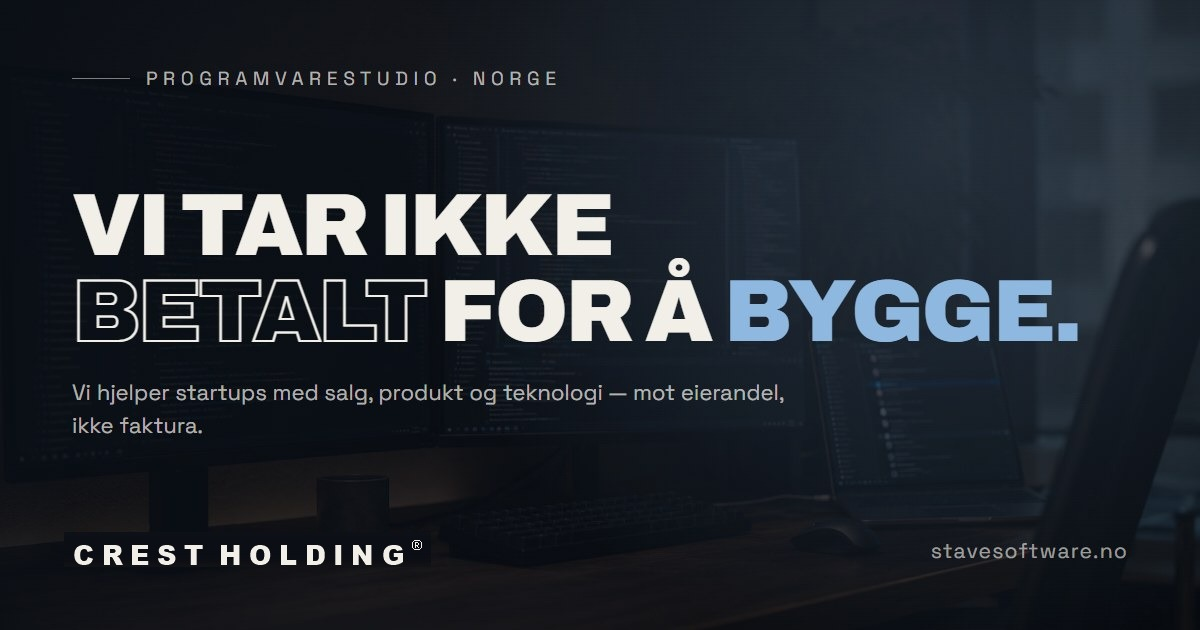
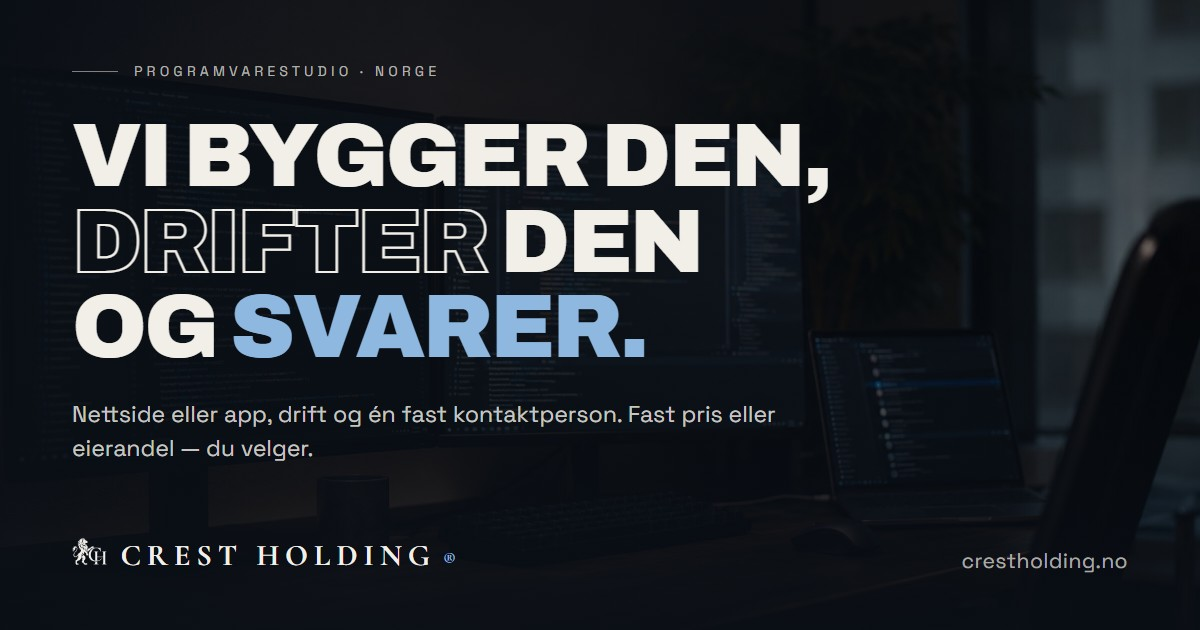
Nytt delingsbilde som matcher siden
Det gamle bildet hadde fire feil brent inn: «Vi tar ikke betalt for å bygge»,
en ingress om eierandel i stedet for faktura, stavesoftware.no i hjørnet, og
et ordmerke satt i Arial Black i stedet for logoens egen skrift.

Bildet er laget på nytt i stedet for lappet, som en side rendret i nøyaktig
1200 x 630 med sidens egne fonter — Archivo i tittelen, Space Grotesk i
brødteksten og Cormorant Garamond i ordmerket — og heroens bakgrunnsbilde.
Rendringen ventet på at alle tre fontene faktisk var lastet, så det ikke er
reserveskrifter som er brent inn.

URL-en har fått ?v=2. Facebook og LinkedIn mellomlagrer delingsbilder etter
adresse, og med samme filnavn ville de fortsatt vist det gamle.

diff --git a/app/blogg/[slug]/page.tsx b/app/blogg/[slug]/page.tsx
@@ -33,7 +33,7 @@ export async function generateMetadata({
       publishedTime: a.publisert,
       images: [
         {
-          url: '/og-image.jpg',
+          url: '/og-image.jpg?v=2',
           width: 1200,
           height: 630,
           alt: `${selskap.fulltNavn} — Vi bygger digitale produkter folk faktisk bruker`,
@@ -44,7 +44,7 @@ export async function generateMetadata({
       card: "summary_large_image",
       title: a.tittel,
       description: a.metaBeskrivelse,
-      images: ["/og-image.jpg"],
+      images: ["/og-image.jpg?v=2"],
     },
   };
 }

diff --git a/app/layout.tsx b/app/layout.tsx
@@ -67,7 +67,7 @@ export const metadata: Metadata = {
     locale: "nb_NO",
     images: [
       {
-        url: '/og-image.jpg',
+        url: '/og-image.jpg?v=2',
         width: 1200,
         height: 630,
         alt: `${selskap.fulltNavn} — Vi bygger den, drifter den og svarer`,
@@ -79,7 +79,7 @@ export const metadata: Metadata = {
     title: selskap.fulltNavn,
     description:
       "Vi bygger nettsider og apper, drifter dem, og du får én fast person. Fast pris eller eierandel.",
-    images: ["/og-image.jpg"],
+    images: ["/og-image.jpg?v=2"],
   },
 };
 

diff --git a/app/blogg/page.tsx b/app/blogg/page.tsx
@@ -19,7 +19,7 @@ export const metadata: Metadata = {
     locale: "nb_NO",
     images: [
       {
-        url: '/og-image.jpg',
+        url: '/og-image.jpg?v=2',
         width: 1200,
         height: 630,
         alt: `${selskap.fulltNavn} — Vi bygger digitale produkter folk faktisk bruker`,

diff --git a/app/personvern/page.tsx b/app/personvern/page.tsx
@@ -19,7 +19,7 @@ export const metadata: Metadata = {
     locale: "nb_NO",
     images: [
       {
-        url: "/og-image.jpg",
+        url: "/og-image.jpg?v=2",
         width: 1200,
         height: 630,
         alt: selskap.fulltNavn,

diff --git a/app/vilkar/page.tsx b/app/vilkar/page.tsx
@@ -19,7 +19,7 @@ export const metadata: Metadata = {
     locale: "nb_NO",
     images: [
       {
-        url: "/og-image.jpg",
+        url: "/og-image.jpg?v=2",
         width: 1200,
         height: 630,
         alt: selskap.fulltNavn,
